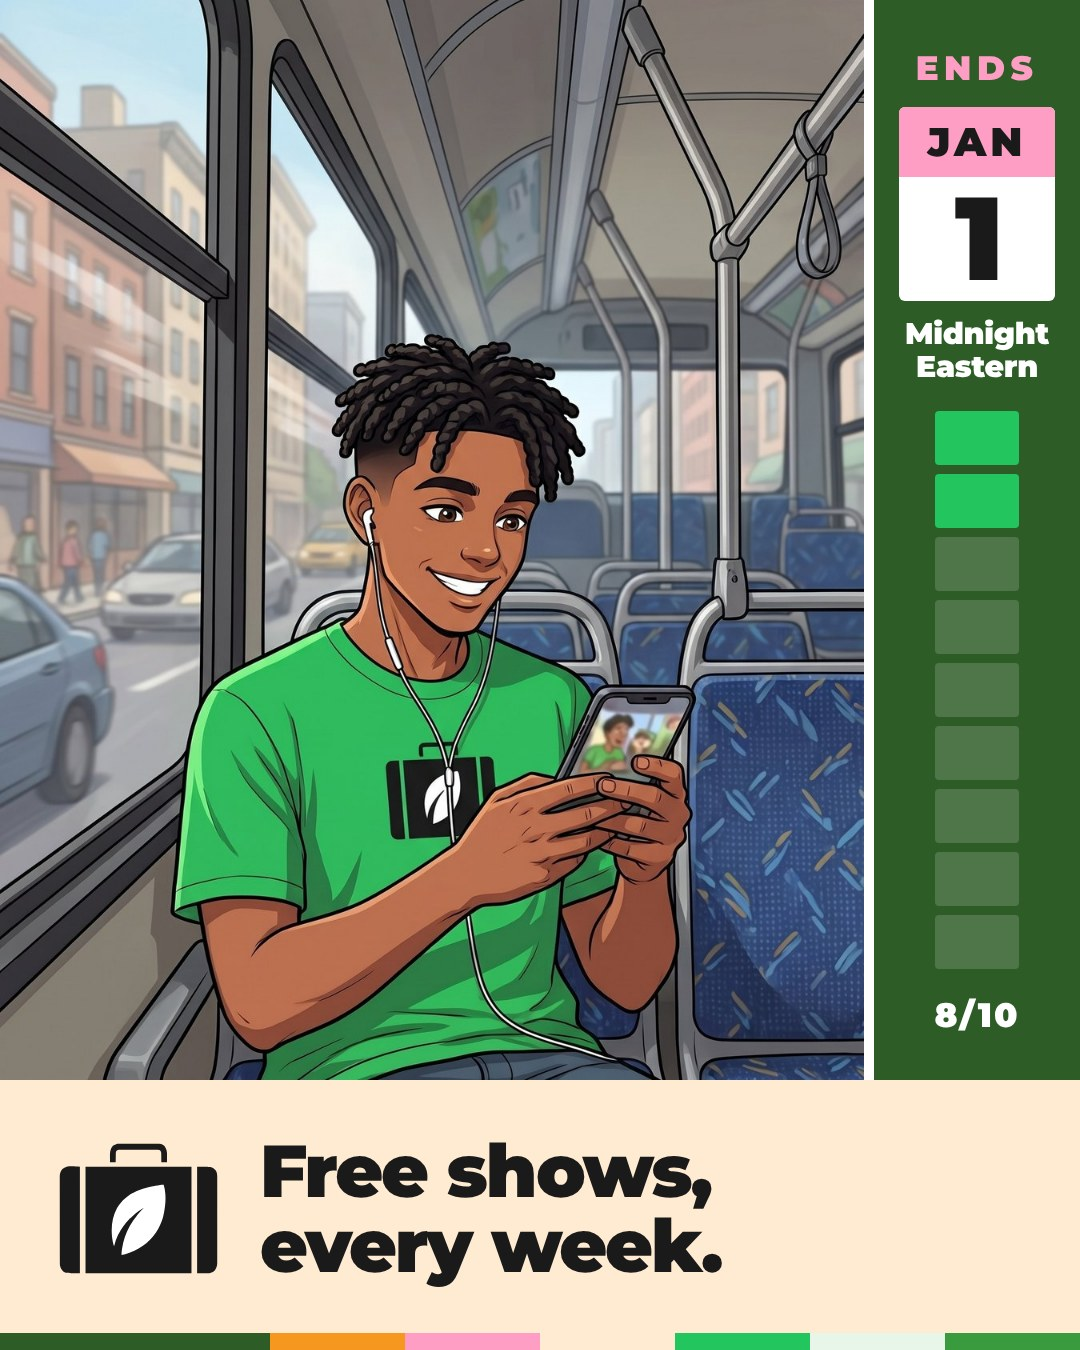
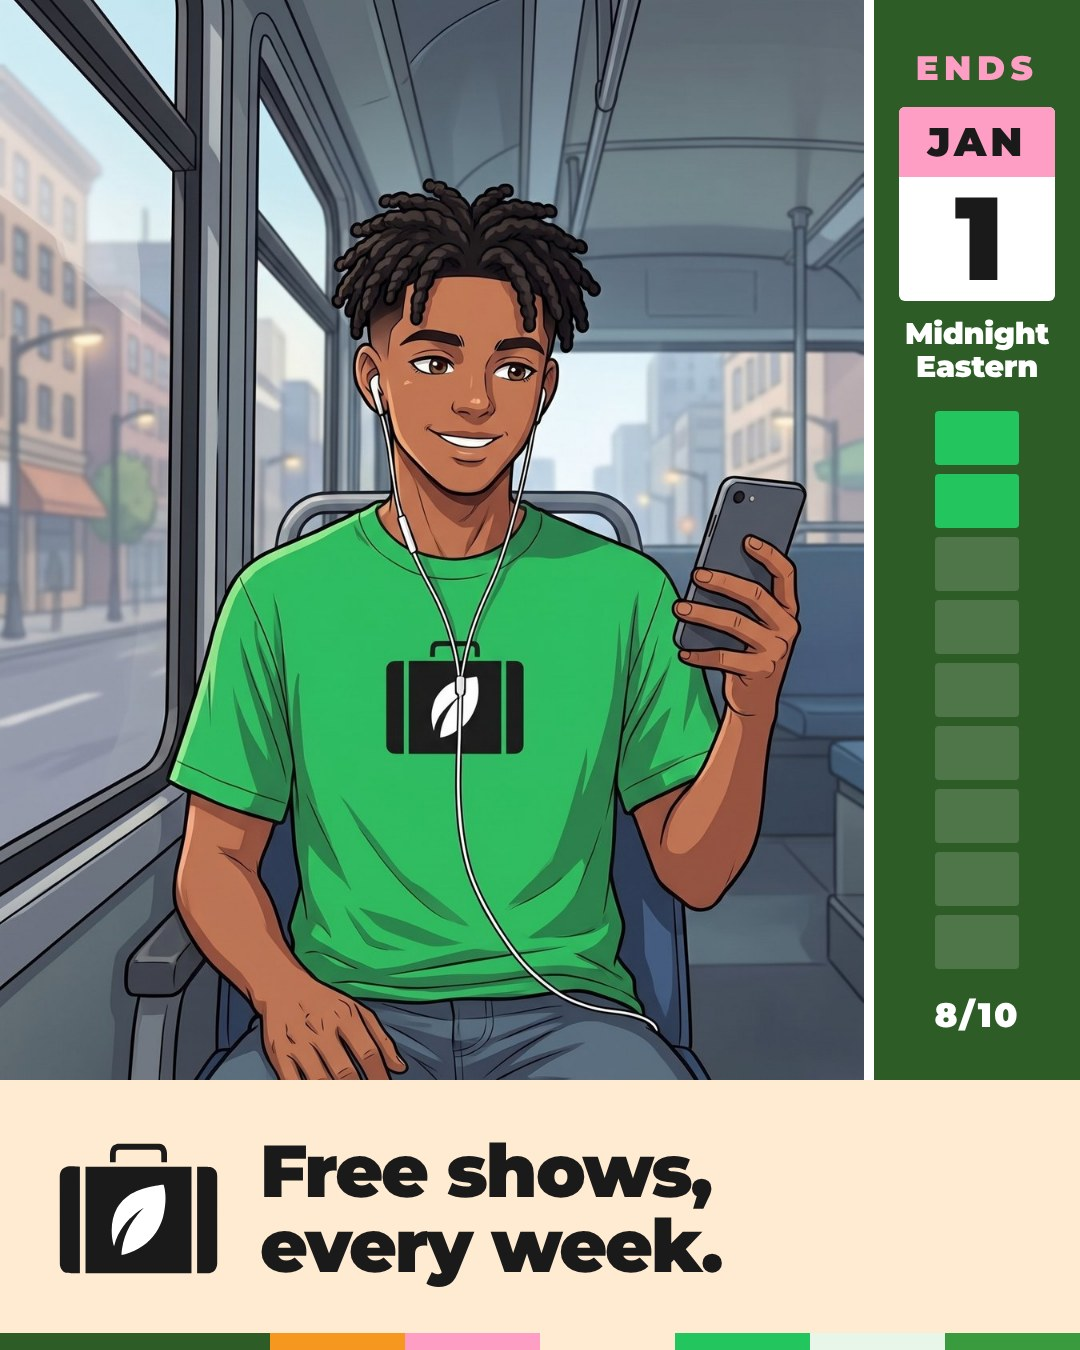
Founding Member series scheduled Mondays from Nov 16; River on the bus redrawn; What is carousel and reel paused
Claude-Session: https://claude.ai/code/session_016TNa9UbJfSyMYLUwC33Bbw

diff --git a/docs/history/social.md b/docs/history/social.md
@@ -257,3 +257,15 @@ carousels. And then the 3rd could be our current programming... each slide is go
   word by stt; the last frame holds 1 s so the Founding Member line finishes (28.4 s, -13.3 LUFS). Line, files and mix in
   `public/social/pinned/what-is-reel/voiceover.md`; the reel in storage replaced (sha matched); the slot's By hand note says to leave the Instagram
   song empty so it does not cover her.
+- **The Founding Member series, locked and scheduled (Sean, 2026-11-15)**. After the strategist panel, Sean reset the brief: "We need to have a
+  carousel with each carousel explaining why someone should become a founding member... it has to be about them... at the end, it's free
+  registration until January 1st", four designers, four proofs on our brand. Proofs in `public/social/founding/` (brief `BRIEF.md`): A Be one of
+  the first (scarcity, a clock rail), B Your week (story), C Straight to the point (direct response), D Your city (place). Sean locked all four
+  ("We can lock that in as a post for founding members"), asked for the current look and a mixed cast (rule in `docs/history/guides-standards.md`),
+  then approved them with one exception, River on the bus showing his phone's screen (redrawn twice: screen hidden, then the shirt mark kept
+  clear). Thirteen new scenes in `public/social/founding/scenes/`. Copy corrections by Logan: B's calendar read Jan 1 11:59 PM ET (24 h late, now
+  12:00 AM ET); C's "Free until Jan 1" and "The door closes January 1" implied joining ends (joining stays free; Founding Member closes), now "Ends
+  Jan 1", "Founding closes January 1", "Claim it now. Yours for good."; #PlantBased dropped. **Scheduled** (migration
+  `20261115_founding_member_series.sql`, batch `founding-series`, files in `vegan-media/media/social/founding/<slug>/`, 39 checked): Mondays 9 AM ET,
+  B Nov 16 (TikTok song Take Me (To The Moon)), C Nov 23, A Nov 30, D Dec 7, each pinned as it posts in the Founding spot (the Holiday Guide stays
+  first). The What is Vegans Explore carousel and reel are paused (skipped). Before C posts: retake its slides 2, 3 and 5 (live counts, event dates).

diff --git a/public/social/founding/direct-response/caption.md b/public/social/founding/direct-response/caption.md
@@ -8,7 +8,7 @@ Join before midnight Eastern on January 1, 2027 and you are a Founding Member. I
 
 Free. A short survey. 250 welcome points. Tap the link in bio to register.
 
-#Vegan #VeganFood #VeganCommunity #PlantBased #VegansExplore #FoundingMember
+#Vegan #VeganFood #VeganCommunity #VegansExplore #FoundingMember
 
 # On-slide words
 

diff --git a/public/social/founding/scarcity-identity/caption.md b/public/social/founding/scarcity-identity/caption.md
@@ -10,7 +10,7 @@ From South Florida to Seattle, Atlanta to London, your city is already here.
 
 Tap the link in bio to join free. The clock is on.
 
-#Vegan #VegansExplore #FoundingMember #VeganCommunity #VeganFood #PlantBased
+#Vegan #VegansExplore #FoundingMember #VeganCommunity #VeganFood
 
 # On-slide words
 
